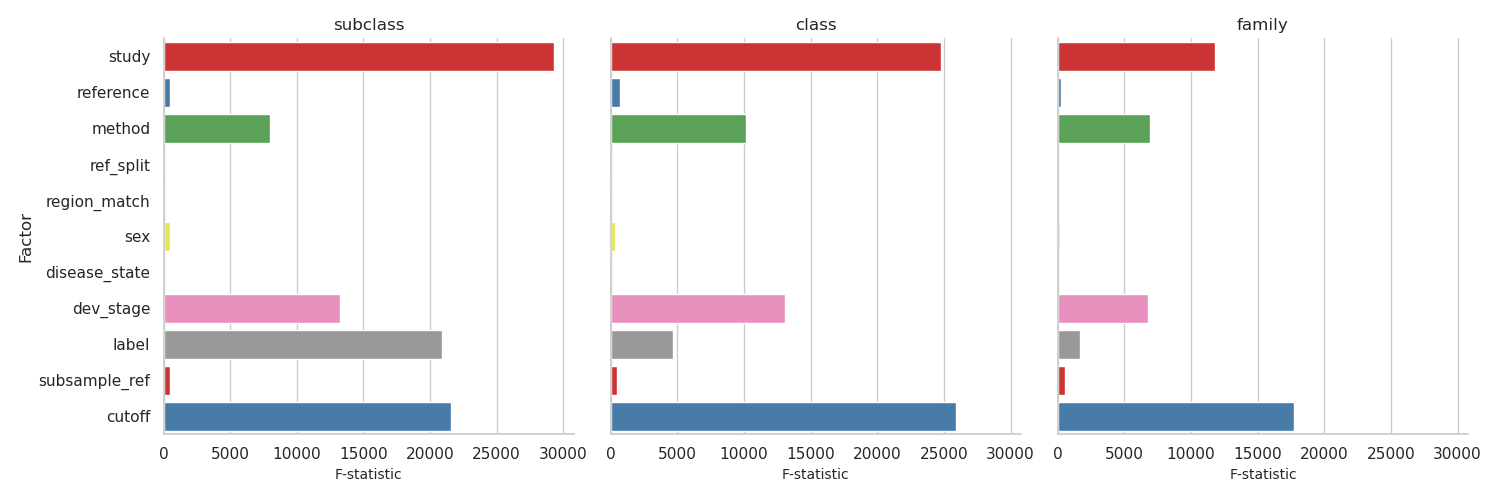
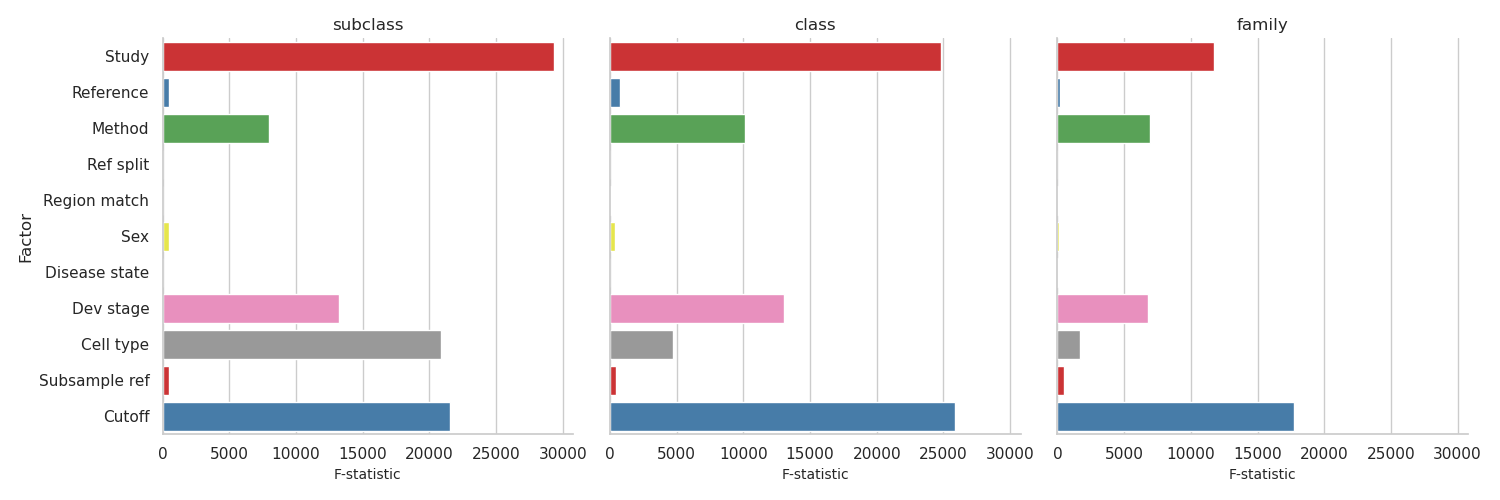
add model performance

diff --git a/bin/model_performance.py b/bin/model_performance.py
@@ -25,8 +25,8 @@ import matplotlib.lines as mlines
 # Function to parse command line arguments
 def parse_arguments():
     parser = argparse.ArgumentParser(description="Download model file based on organism, census version, and tree file.")
-    parser.add_argument('--pipeline_results', type=str, nargs = "+", 
-                        help="files containing f1 results with params")                                            
+    parser.add_argument('--weighted_f1_results', type=str, default = "/space/grp/rschwartz/rschwartz/evaluation_summary.nf/aggregated_results/full_query/weighted_f1_results.tsv", help="Aggregated weighted results")
+    parser.add_argument('--label_f1_results', type=str, default="/space/grp/rschwartz/rschwartz/evaluation_summary.nf/aggregated_results/full_query/label_f1_results.tsv", help="Label level f1 results")                                            
     if __name__ == "__main__":
         known_args, _ = parser.parse_known_args()
         return known_args
@@ -189,77 +189,37 @@ def make_acronym(ref_name):
     # Create acronym from the first letter of each word
     acronym = "".join(word[0].upper() for word in words if word)
     return acronym
-
-def map_development_stage(stage):
-    # re write dict
-    dev_stage_mapping_dict = {
-        "HsapDv_0000083": "infant",
-        "HsapDv_0000084": "toddler",
-        "HsapDv_0000085": "child",
-        "HsapDv_0000086": "adolescent",
-        "HsapDv_0000088": "adult",
-        "HsapDv_0000091": "late adult"
-    }
-    return dev_stage_mapping_dict[stage]
     
-        
- 
 def main():
-    # Parse command line arguments
+    
     args = parse_arguments()
-    # Set organism and census_version from arguments
-    pipeline_results = args.pipeline_results
+    weighted_f1_results = pd.read_csv(args.weighted_f1_results, sep="\t")
+    label_results = pd.read_csv(args.label_f1_results, sep="\t")
 
-    
-    f1_df = pd.DataFrame() 
-     
-    #for file in os.listdir(pipeline_results):
-    for filepath in pipeline_results:
-    #filepath = os.path.join(pipeline_results, file)
-    # method = filepath.split("/")[-3]
-        temp_df = pd.read_csv(filepath,sep="\t")
-        # temp_df["method"] = method
-        f1_df = pd.concat([temp_df, f1_df], ignore_index=True)
-        
-    f1_df["region_match"] = f1_df.apply(lambda row: row['query_region'] in row['ref_region'], axis=1)
-    f1_df["reference_acronym"] = f1_df["reference"].apply(make_acronym)
-    f1_df["query_acronym"] = f1_df["query"].apply(make_acronym)
-    f1_df["reference"] = f1_df["reference"].str.replace("_", " ")
-    f1_df["study"] = f1_df["query"].apply(lambda x: x.split("_")[0])
-    f1_df["query"] = f1_df["query"].str.replace("_", " ")
-    f1_df["disease_state"] = np.where(f1_df["disease"] == "Control", "Control", "Disease")
-    f1_df["dev_stage"] = f1_df["dev_stage"].apply(map_development_stage)
-    
-    # replace rosmap infant with rosmap late adult
-    f1_df["dev_stage"] = np.where(f1_df["study"] == "rosmap" , "late adult", f1_df["dev_stage"])
-    
-    
     # Boxplots: Show the effect of categorical parameters
-    categorical_columns = ['query', 'reference','method','ref_split', 'region_match',"subsample_ref","sex","disease_state","dev_stage","cutoff"] #organism, other categoricals
+    categorical_columns = ['query', 'method', 'reference']
     outdir = "weighted_f1_distributions"
     label_columns = ["label", "f1_score"]
     os.makedirs(outdir, exist_ok=True)
-    
-    # Drop duplicates, but exclude 'ref_split' column (so duplicates in 'ref_split' are allowed)
-    weighted_f1_results = f1_df.drop(columns=label_columns)
-    weighted_f1_results = weighted_f1_results.drop_duplicates()
-    #weighted_f1_results = weighted_f1_results.drop_duplicates(subset=weighted_f1_results.columns.difference(['ref_split']))
-    # Keep only rows where 'weighted_f1' is not null
-    weighted_f1_results = weighted_f1_results[weighted_f1_results["weighted_f1"].notnull()] 
-    weighted_f1_results.to_csv("weighted_f1_results.tsv", sep="\t", index=False)
 
 
+    for key in weighted_f1_results["key"].unique():
+        df_subset = weighted_f1_results[weighted_f1_results["key"] == key]
+        outdir = f"weighted_f1_distributions/{key}"
+        os.makedirs(outdir, exist_ok=True)
+        for col in categorical_columns:
+            if col not in ["method"]:   
+                plot_distribution(df_subset, var="weighted_f1", outdir=outdir, split=col, facet="method", 
+                                acronym_mapping=None)
+                
+    for key in label_results["key"].unique():
+        df_subset = label_results[label_results["key"] == key]
+        outdir = f"label_distributions/{key}"
+        os.makedirs(outdir, exist_ok=True)
+        for col in categorical_columns:
+          # if col != "method":
+            plot_distribution(df_subset, var="f1_score",outdir=outdir, split=col, facet="label", 
+                        acronym_mapping = None, add_region_match=False)
     
-    # plot distribution of label_f1 across different splits
-    outdir = "label_distributions"
-    os.makedirs(outdir, exist_ok=True)
-    label_results = f1_df[f1_df['label'].notnull()]
-    label_results = label_results[label_results["f1_score"].notnull()]
-    label_results = label_results.drop_duplicates()
-    #label_results = label_results.drop_duplicates(subset=label_results.columns.difference(['ref_split']))
-    label_results.to_csv("label_f1_results.tsv", sep="\t", index=False)
-    
-    
-if __name__ == "__main__":
-    main()
+            
     

diff --git a/bin/run_anova.py b/bin/run_anova.py
@@ -55,13 +55,18 @@ def run_anova(df, factor_names, f1_column):
     return aov_table
 
 def plot_anova_results(aov_combined_df, title_prefix):
+    
     plt.rcParams.update({'font.size': 20})  # Set default font size for all plot elements 
     custom_order = ['subclass', 'class', 'family']
+    
+    # rename factors
     
     # Set 'key' column as categorical with a custom order
     aov_combined_df['key'] = pd.Categorical(aov_combined_df['key'], categories=custom_order, ordered=True)
    
     aov_combined_df["factor"] = aov_combined_df.index
+    aov_combined_df['factor'] = aov_combined_df['factor'].str.replace("_"," ").str.capitalize().replace("Label", "Cell type")
+
     aov_combined_df.reset_index(drop=True, inplace=True)
      # Plot with faceting by 'key'
     sns.set(style="whitegrid")
@@ -74,6 +79,7 @@ def plot_anova_results(aov_combined_df, title_prefix):
    # g.set(xticks=[], yticks=[])
 
     g.set_xlabels(fontsize=10)
+    g.set_xticklabels(rotation=90)
     g.set_ylabels(fontsize=12)
         # Adjust layout and save the figure
     plt.tight_layout()
@@ -101,8 +107,9 @@ def main():
     for factor in ["cutoff", "subsample_ref"]:
         weighted_f1_results[factor] =weighted_f1_results[factor].astype('float')
         label_f1_results[factor] =label_f1_results[factor].astype('float')
-    
- 
+   
+   # change names and capitalize categories
+   
 
     aov_combined = []
     df_list = [group for _, group in weighted_f1_results.groupby('key')]
